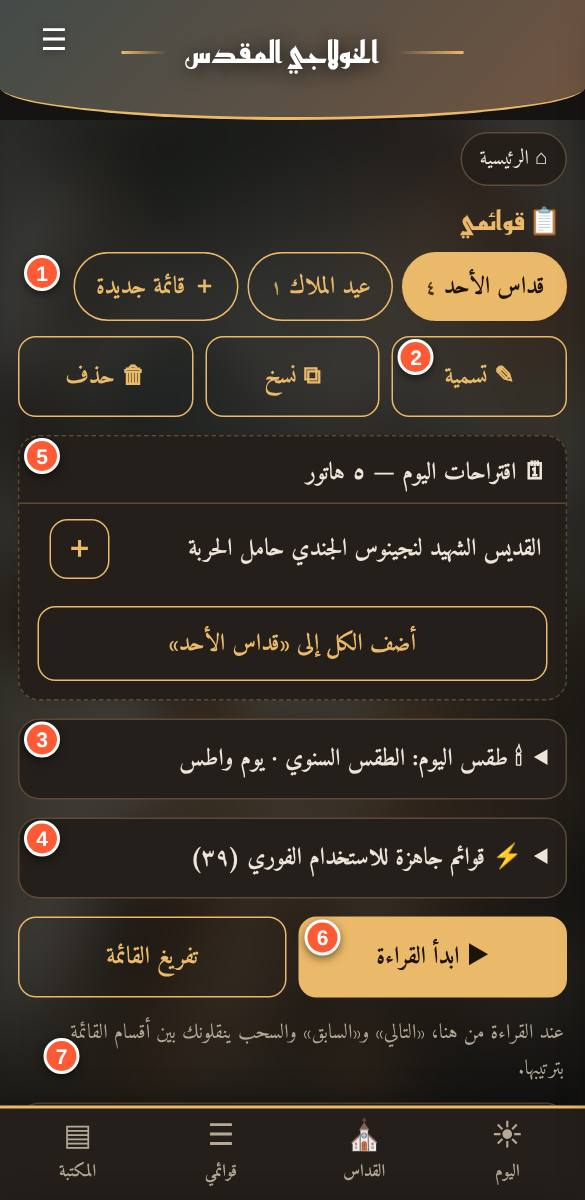
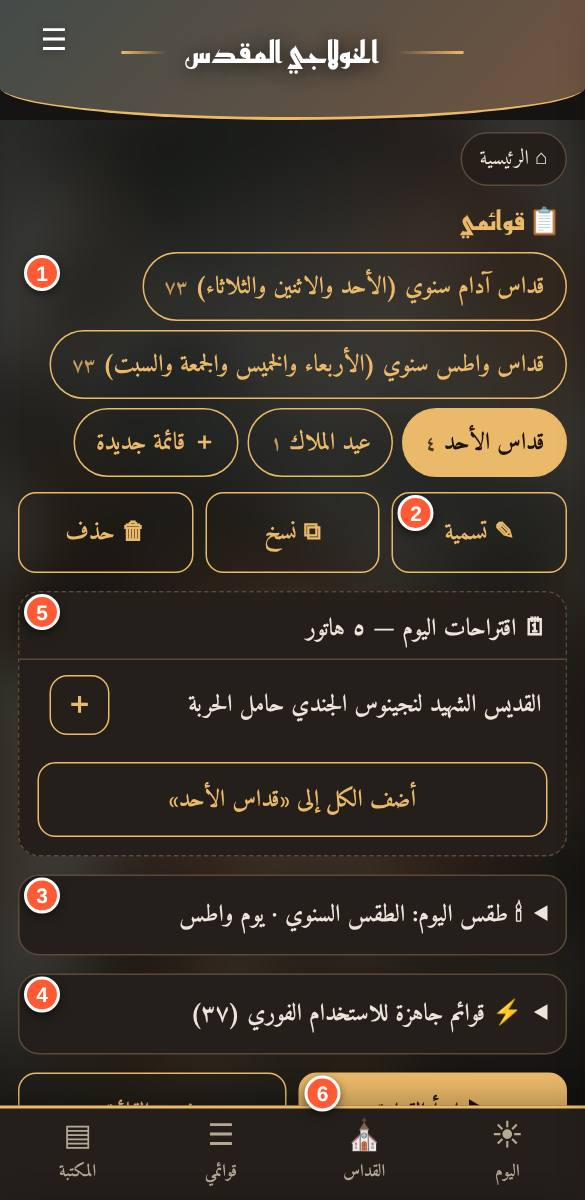
قائمتا قداس آدام وواطس ثابتتان في أول «قوائمي» (1.5.8)
Claude-Session: https://claude.ai/code/session_01TxsQH8W41ZBNhnMhe9bVaK

Changed region(s): [[0.0308, 0.185, 0.9846, 0.925], [0.0308, 0.8942, 0.0615, 0.925]]

diff --git a/index.html b/index.html
@@ -1281,12 +1281,24 @@ function litView(){
   app.innerHTML=h+'</div>';window.scrollTo(0,0)}
 var PL=false;
 function dxw(d){try{localStorage.setItem("khulagi.dxlists",JSON.stringify(d))}catch(e){}}
+function dxFullIds(){
+  var ok=function(id){return BYID[id]&&BYID[id].has},gi=function(id){var g=D.groups.filter(function(x){return x.id===id})[0];return g?g.sections.map(function(x){return x.id}):[]};
+  var rafI=["raf-shukr","raf-after","raf-altar","raf-raqdin","raf-mardah","raf-musafirin","raf-qarabin","raf-bakhur","raf-allahumma","raf-ewash-ing","raf-reading","raf-after-ing","raf-tahalil","raf-blessing"],
+      doxI=["dox_virgin_morning","dox_virgin_morning_rest","dox_virgin_closing"],
+      masI=gi("bas").filter(function(x){return x!=="bas-rushum"&&x!=="bas-qisma-intro"}),tzI=[];
+  D.groups.forEach(function(g){if(g.id==="tawzi")g.sections.forEach(function(x){if(x.occ==="always")tzI.push(x.id)})});
+  return rafI.concat(doxI,masI,tzI).filter(ok)}
+var FXL=[["fx-adam","قداس آدام سنوي (الأحد والاثنين والثلاثاء)"],["fx-watos","قداس واطس سنوي (الأربعاء والخميس والجمعة والسبت)"]];
+function dxFixed(d){var ids=dxFullIds(),keep=d.lists.filter(function(x){return !x.fixed&&x.id.indexOf("fx-")!==0});
+  d.lists=FXL.map(function(f){return {id:f[0],name:f[1],items:ids.slice(),fixed:true}}).concat(keep);return d}
 function dxd(){var d=null;try{d=JSON.parse(localStorage.getItem("khulagi.dxlists")||"null")}catch(e){}
   if(!d||!Array.isArray(d.lists)||!d.lists.length){var old=[];try{old=JSON.parse(localStorage.getItem("khulagi.dxlist")||"[]")}catch(e){}d={cur:"l1",lists:[{id:"l1",name:"قائمتي",items:Array.isArray(old)?old:[]}]};dxw(d)}
+  var first=!d.lists.some(function(x){return x.fixed});dxFixed(d);
+  if(first&&d.cur==="l1"&&d.lists.length===3&&!d.lists[2].items.length){var rt=null;try{rt=window.KCAL&&KCAL.rite?KCAL.rite(new Date()):null}catch(e){}d.cur=rt&&rt.tune==="واطس"?"fx-watos":"fx-adam"}
   if(!d.lists.some(function(x){return x.id===d.cur}))d.cur=d.lists[0].id;return d}
 function dxc(){var d=dxd();return d.lists.filter(function(x){return x.id===d.cur})[0]}
 function dxl(){return dxc().items}
-function dxs(a){var d=dxd();d.lists.forEach(function(x){if(x.id===d.cur)x.items=a});dxw(d)}
+function dxs(a){var d=dxd();d.lists.forEach(function(x){if(x.id===d.cur&&!x.fixed)x.items=a});dxw(d)}
 function dxBtn(id){var on=dxl().indexOf(id)>=0;return '<button class="dxp'+(on?' on':'')+'" data-dxadd="'+id+'" aria-label="'+(on?'إزالة من القائمة':'إضافة إلى القائمة')+'">'+(on?'✓':'＋')+'</button>'}
 function dxNb(id,dir){var a=dxl().filter(function(x){return BYID[x]&&BYID[x].has}),i=a.indexOf(id);if(i<0)return null;return a[i+dir]||null}
 function shortN(t,n){t=String(t);return t.length>n?t.slice(0,n)+"…":t}
@@ -1307,30 +1319,22 @@ function dxPresets(){
   var now=null;try{now=window.KCAL?KCAL.occasions(new Date()):null}catch(e){}
   var tk=now?now.keys:[],sun=new Date().getDay()===0,out=[];
   OCCL.forEach(function(o){var ids=[];D.groups.forEach(function(g){if(g.id!=="dox"&&g.id!=="tawzi")return;g.sections.forEach(function(x){var ks=x.occ?x.occ.split(" "):[];if(ks.indexOf(o[0])>=0&&BYID[x.id]&&BYID[x.id].has)ids.push(x.id)})});if(ids.length)out.push({k:o[0],n:o[1],ids:ids,t:tk.indexOf(o[0])>=0})});
-  var rt=null;try{rt=window.KCAL&&KCAL.rite?KCAL.rite(new Date()):null}catch(e){}
-  var ok=function(id){return BYID[id]&&BYID[id].has},gi=function(id){var g=D.groups.filter(function(x){return x.id===id})[0];return g?g.sections.map(function(x){return x.id}):[]};
-  var rafI=["raf-shukr","raf-after","raf-altar","raf-raqdin","raf-mardah","raf-musafirin","raf-qarabin","raf-bakhur","raf-allahumma","raf-ewash-ing","raf-reading","raf-after-ing","raf-tahalil","raf-blessing"],
-      doxI=["dox_virgin_morning","dox_virgin_morning_rest","dox_virgin_closing"],
-      masI=gi("bas").filter(function(x){return x!=="bas-rushum"&&x!=="bas-qisma-intro"}),
-      tzI=[];D.groups.forEach(function(g){if(g.id==="tawzi")g.sections.forEach(function(x){if(x.occ==="always")tzI.push(x.id)})});
-  var full=rafI.concat(doxI,masI,tzI).filter(ok);
-  if(full.length>20){out.push({k:"adam",n:"قداس آدام سنوي (الأحد والاثنين والثلاثاء)",ids:full.slice(),t:!!(rt&&rt.tune==="آدام"&&rt.rite==="الطقس السنوي")});
-    out.push({k:"watos",n:"قداس واطس سنوي (الأربعاء والخميس والجمعة والسبت)",ids:full.slice(),t:!!(rt&&rt.tune==="واطس"&&rt.rite==="الطقس السنوي")})}
   var an=[];D.groups.forEach(function(g){if(g.id!=="tawzi")return;g.sections.forEach(function(x){if(x.occ==="always"&&BYID[x.id]&&BYID[x.id].has)an.push(x.id)})});
   if(an.length)out.push({k:"sunday",n:"أحد عادي — مدائح التوزيع السنوية",ids:an,t:sun});
   out.sort(function(a,b){return (b.t?1:0)-(a.t?1:0)});return out}
 function dxView(){
   var d=dxd(),c=dxc(),a=c.items.filter(function(id){return BYID[id]}),h='<div class="crumb"><button data-nav="#/">⌂ الرئيسية</button></div><div class="gh"><h2>📋 قوائمي</h2></div>';
   h+='<div class="dxtabs">'+d.lists.map(function(x){return '<button class="'+(x.id===d.cur?'on':'')+'" data-dxsw="'+x.id+'">'+esc(x.name)+' <small>'+ar9(x.items.length)+'</small></button>'}).join("")+'<button data-dxnew="1">＋ قائمة جديدة</button></div>';
-  h+='<div class="dxbar"><button data-dxren="1">✎ تسمية</button><button data-dxdup="1">⧉ نسخ</button><button data-dxrmlist="1">🗑 حذف</button></div>';
+  var fx=!!c.fixed;
+  h+=fx?'<div class="dxbar"><button data-dxdup="1">⧉ انسخها لتعدّل عليها</button></div><p class="hint" style="margin:0 14px 8px">🔒 قائمة ثابتة: تتجدد مع تحديث المحتوى ولا تُحذف ولا يُعاد ترتيبها.</p>':'<div class="dxbar"><button data-dxren="1">✎ تسمية</button><button data-dxdup="1">⧉ نسخ</button><button data-dxrmlist="1">🗑 حذف</button></div>';
   var t=dxToday();
   if(t.cd&&t.dx.length){var miss=t.dx.filter(function(x){return c.items.indexOf(x.id)<0}).length;
     h+='<div class="dxtd"><b>🗓 اقتراحات اليوم — '+ar9(t.cd.d)+' '+esc(CMN[t.cd.m])+'</b>'+(t.season?'<small class="dxsn">'+esc(t.season)+'</small>':'')+t.dx.map(function(x){return '<div class="dxi"><button class="go" data-nav="#/s/'+x.id+'">'+esc(x.title)+'</button>'+dxBtn(x.id)+'</div>'}).join("")+(miss?'<button class="dxall" data-dxaddtoday="1">أضف الكل إلى «'+esc(shortN(c.name,16))+'»</button>':'')+'</div>'}
   h+=riteCard();var pr=dxPresets();
   if(pr.length)h+='<details class="dxpre"'+(a.length?'':' open')+'><summary>⚡ قوائم جاهزة للاستخدام الفوري ('+ar9(pr.length)+')</summary><p class="hint" style="margin:6px 14px">تتغير ترتيبا حسب تاريخ اليوم. اضغط أي قائمة لتُضاف إلى قوائمك، ثم ابدأ القراءة منها فورا أو عدّل ترتيبها وأضف إليها.</p>'+pr.map(function(x){return '<div class="dxi"><button class="go" data-dxpre="'+x.k+'">'+(x.t?'🗓 ':'')+esc(x.n)+'<small>'+ar9(x.ids.length)+' قسمًا'+(x.t?' · اليوم':'')+'</small></button><button class="mv" data-dxpre="'+x.k+'">＋ قائمة</button></div>'}).join("")+'</details>';
   if(!a.length){h+='<div class="empty"><b>القائمة فارغة</b>اضغط ＋ بجوار أي ذكصولوجية أو أي قسم لإضافته هنا، ورتّبه بالترتيب الذي تريده. يمكنك أيضًا الإضافة أثناء القراءة من الزر العائم.</div>'}
-  else{h+='<div class="dxbar"><button class="pri" data-dxgo="'+a[0]+'">▶ ابدأ القراءة</button><button data-dxclear="1">تفريغ القائمة</button></div><p class="hint" style="margin:0 14px 10px">عند القراءة من هنا، «التالي» و«السابق» والسحب ينقلونك بين أقسام القائمة بترتيبها.</p><div class="dxl">';
-    a.forEach(function(id,i){h+='<div class="dxi"><span class="n">'+ar9(i+1)+'</span><button class="go" data-dxgo="'+id+'">'+esc(BYID[id].title)+'<small>'+esc(BYID[id].group.title)+'</small></button><button class="mv" data-dxmv="'+id+'" data-d="-1" '+(i?'':'disabled')+' aria-label="أعلى">▲</button><button class="mv" data-dxmv="'+id+'" data-d="1" '+(i<a.length-1?'':'disabled')+' aria-label="أسفل">▼</button><button class="mv" data-dxdel="'+id+'" aria-label="حذف">✕</button></div>'});
+  else{h+='<div class="dxbar"><button class="pri" data-dxgo="'+a[0]+'">▶ ابدأ القراءة</button>'+(fx?'':'<button data-dxclear="1">تفريغ القائمة</button>')+'</div><p class="hint" style="margin:0 14px 10px">عند القراءة من هنا، «التالي» و«السابق» والسحب ينقلونك بين أقسام القائمة بترتيبها.</p><div class="dxl">';
+    a.forEach(function(id,i){h+='<div class="dxi"><span class="n">'+ar9(i+1)+'</span><button class="go" data-dxgo="'+id+'">'+esc(BYID[id].title)+'<small>'+esc(BYID[id].group.title)+'</small></button>'+(fx?'':'<button class="mv" data-dxmv="'+id+'" data-d="-1" '+(i?'':'disabled')+' aria-label="أعلى">▲</button><button class="mv" data-dxmv="'+id+'" data-d="1" '+(i<a.length-1?'':'disabled')+' aria-label="أسفل">▼</button><button class="mv" data-dxdel="'+id+'" aria-label="حذف">✕</button>')+'</div>'});
     h+='</div>'}
   h+='<div class="dxbar"><button data-ks="export">💾 نسخة احتياطية للقوائم والإعدادات</button></div>'+bnav('');app.innerHTML=h;window.scrollTo(0,0)}
 var CMN=["توت","بابة","هاتور","كيهك","طوبة","أمشير","برمهات","برمودة","بشنس","بؤونة","أبيب","مسرى","النسيء"];

diff --git a/guide-news.js b/guide-news.js
@@ -1,7 +1,8 @@
 /* سجل الميزات الجديدة (الأحدث أولا). كل ميزة جديدة تُضاف هنا كمدخل جديد في أعلى القائمة،
    ثم تُحدَّث مواصفة الصفحة المتأثرة في tools/make-guide.js وتُعاد اللقطات (node tools/make-guide.js). */
-window.KG_VERSION="1.5.7";
+window.KG_VERSION="1.5.8";
 window.KG_NEWS=[
+{v:"1.5.8",t:"قائمتا آدام وواطس ثابتتان في أول «قوائمي»",x:"«قداس آدام سنوي» و«قداس واطس سنوي» صارتا أول قائمتين دائما في «قوائمي»: ثابتتان (🔒) تتجددان مع المحتوى ولا تُحذفان ولا تُعدَّلان، ويمكن نسخهما لقائمة خاصة. وتُفتح تلقائيا القائمة المناسبة ليوم اليوم."},
 {v:"1.5.7",t:"قاعدة ثابتة لكل المدائح",x:"كل بيت في كل مدائح التوزيع (٤٣ مديحا) صار شطرين يمين وشطرين شمال، سطرا مقابل سطر، ولا يتجاوز شطر سطره. وأضيف فحص تلقائي يمنع أي مديح جديد من مخالفة القاعدة."},
 {v:"1.5.6",t:"مراجعة شطري كل بيت في كل المدائح",x:"روجعت كل مدائح التوزيع على صفحات الكتاب وصار كل بيت أربعة أشطر (شطران يمين وشطران شمال) سطرا مقابل سطر، مع الرد في خانة الشطر الأخير بالبيت الأول فقط. شملت المراجعة مدائح الصليب والميلاد والبشارة والقيامة والغطاس والعذراء وميخائيل والنيروز وأحاد كيهك والخمسين والشعانين ولعازر ونينوى والصعود والعنصرة والمدائح السنوية."},
 {v:"1.5.5",t:"الرد المتكرر في المدائح",x:"إن كان للمديح رد متكرر يظهر أعلاه في إطار بلون مختلف (أحمر)، ويُكتب في البيت الأول فقط بنفس اللون، وفي باقي الأبيات تبقى نقاط (……) مكان الرد."},

diff --git a/sw.js b/sw.js
@@ -1,4 +1,4 @@
-const CACHE_NAME='khulagi-v1.5.7';
+const CACHE_NAME='khulagi-v1.5.8';
 const FILES=['./','index.html','icon-192.png','icon-512.png','guide-news.js','calendar.js','content-tawzi.txt','guide-pages.js','guide/doxologies.jpg','guide/occasions.jpg','guide/library.jpg','guide/lists.jpg','guide/lit.jpg','guide/notes.jpg','guide/post.jpg','guide/pre.jpg','guide/reader.jpg','guide/settings.jpg','guide/sidx.jpg','guide/splash.jpg','guide/story.jpg','guide/today.jpg','reemkufi-arabic-700-normal.woff2','dawn.jpg','data.js','study.js','swipe.js','live.js','story.js','study-data.js','data-bible.js','content-raf.txt','content-bas.txt','content-greg.txt','content-cyr.txt','content-qisam.txt','content-misc.txt','content-bless.txt','content-app.txt','content-taqs.txt','content-dox.txt','manifest.webmanifest','amiri-arabic-400-normal.woff2','amiri-arabic-700-normal.woff2','amiri-latin-400-normal.woff2','tajawal-arabic-400.woff2','tajawal-latin-400.woff2','tajawal-arabic-700.woff2','tajawal-latin-700.woff2','cairo-arabic-400-normal.woff2','cairo-arabic-700-normal.woff2','el-messiri-arabic-400-normal.woff2','el-messiri-arabic-700-normal.woff2','lateef-arabic-400-normal.woff2','lateef-arabic-700-normal.woff2','markazi-text-arabic-400-normal.woff2','markazi-text-arabic-700-normal.woff2','noto-naskh-arabic-arabic-400-normal.woff2','noto-naskh-arabic-arabic-700-normal.woff2','reem-kufi-arabic-400-normal.woff2','reem-kufi-arabic-700-normal.woff2','scheherazade-new-arabic-400-normal.woff2','scheherazade-new-arabic-700-normal.woff2','amiri-latin-700-normal.woff2','noto-sans-coptic-coptic-400-normal.woff2','noto-sans-coptic-latin-400-normal.woff2'];
 self.addEventListener('install',e=>{e.waitUntil(caches.open(CACHE_NAME).then(c=>Promise.all(FILES.map(f=>c.add(new Request(f,{cache:'reload'})).catch(()=>{})))).then(()=>self.skipWaiting()))});
 self.addEventListener('activate',e=>{e.waitUntil(caches.keys().then(k=>Promise.all(k.filter(x=>x!==CACHE_NAME).map(x=>caches.delete(x)))).then(()=>self.clients.claim()))});

diff --git a/guide-pages.js b/guide-pages.js
@@ -278,11 +278,6 @@ window.KG_PAGES=[
     6,
     "ابدأ القراءة",
     "يقرأ من أول قسم ويتنقل بترتيب القائمة."
-   ],
-   [
-    7,
-    "▲ ▼ ✕",
-    "تحريك القسم لأعلى أو لأسفل أو حذفه."
    ]
   ],
   "nav": ""
